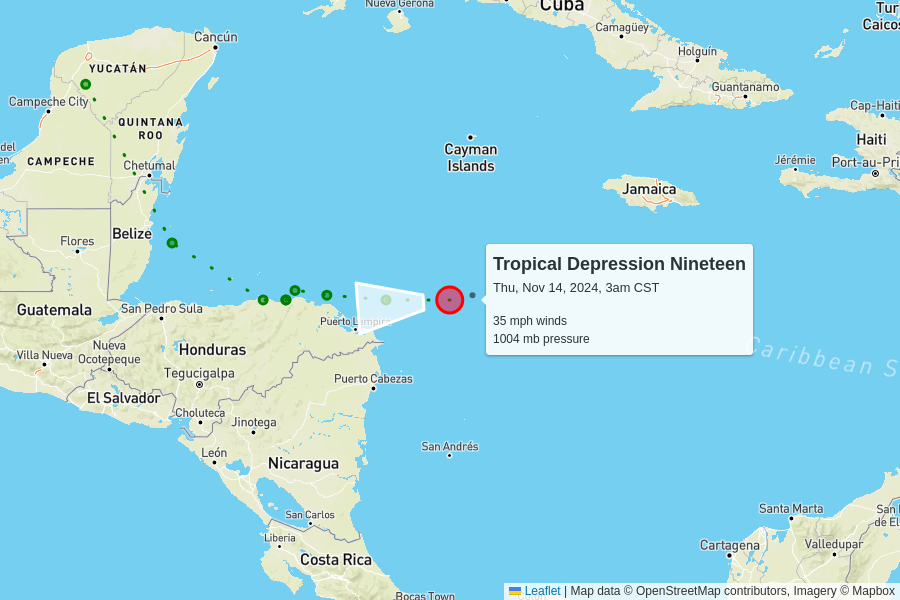
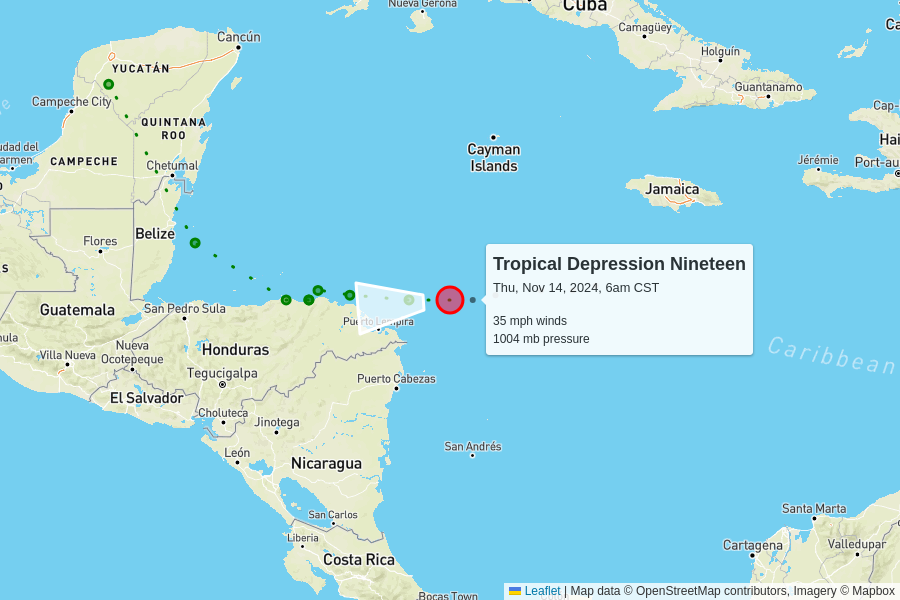
automatic update

diff --git a/docs/index.html b/docs/index.html
@@ -102,7 +102,7 @@
         <td colspan="6" class="storm category-0" >
           <h2>
             Tropical Depression Nineteen
-            <p class="updated">last updated <span data-time>2024-11-14T09:00:00.000Z</span></p>
+            <p class="updated">last updated <span data-time>2024-11-14T12:00:00.000Z</span></p>
           </h2>
         </td>
       </tr>
@@ -117,10 +117,10 @@
       </tr>
       <tr>
         <td class="spacer"></td>
-        <td>35 mph<br>+5 mph since last update</td>
-        <td>1004 mb<br>-1 mb since last update</td>
+        <td>35 mph<br>0 mph since last update</td>
+        <td>1004 mb<br>0 mb since last update</td>
         <td>
-          16 mph to the west
+          15 mph to the west
           <br/>
           <span style="display: inline-block; font-size: 1.5em; transform: rotate(265deg);">↑</span>
         </td>
